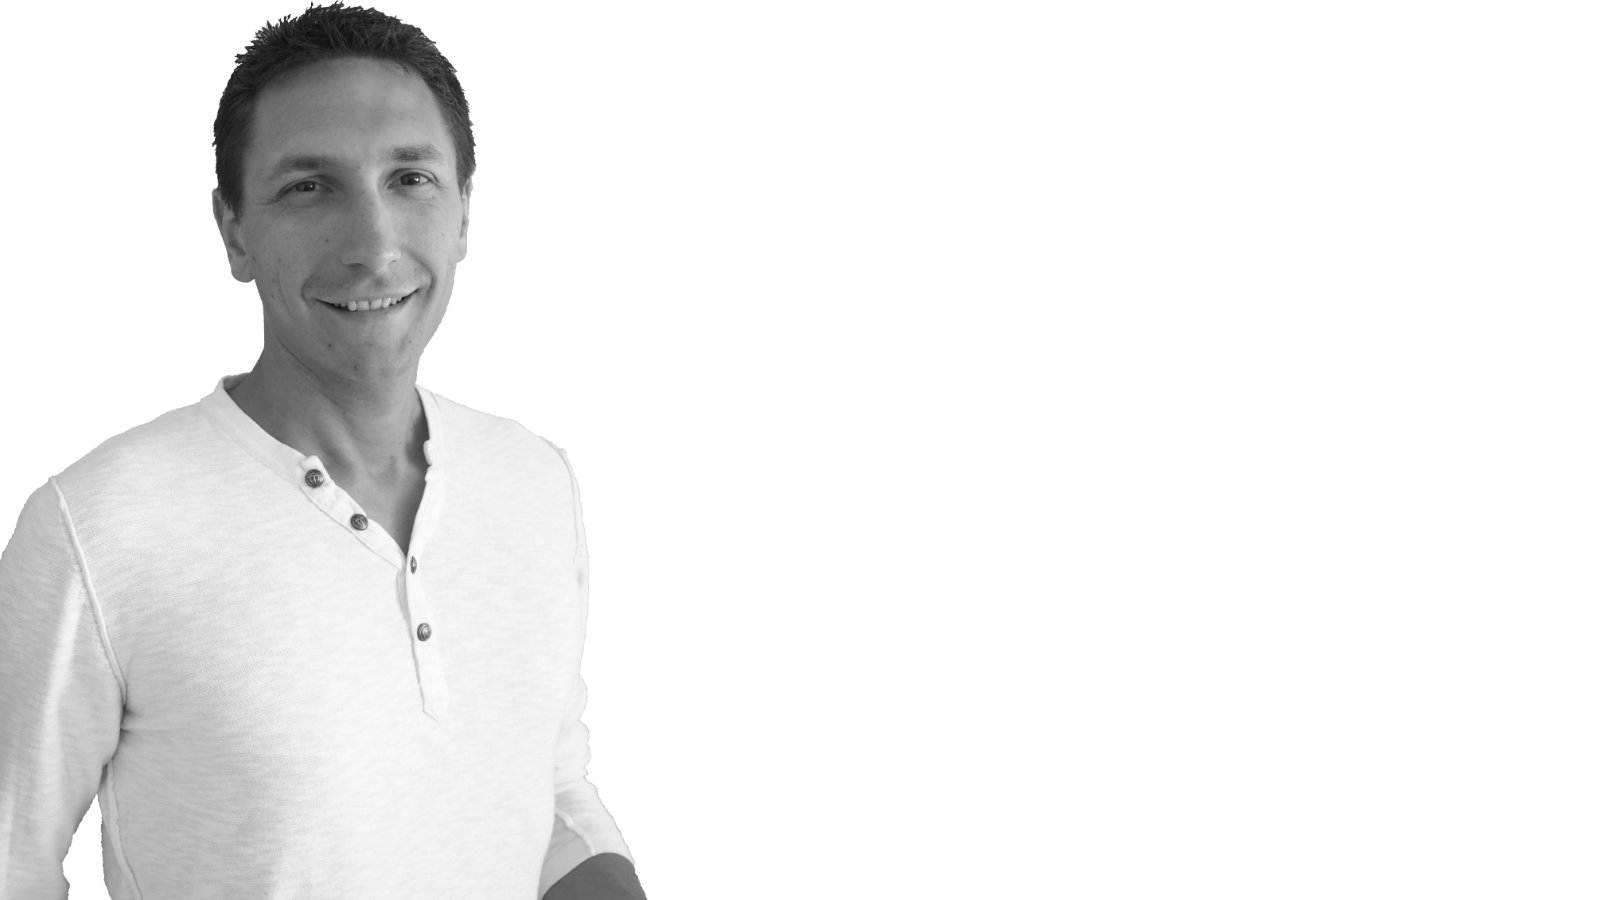
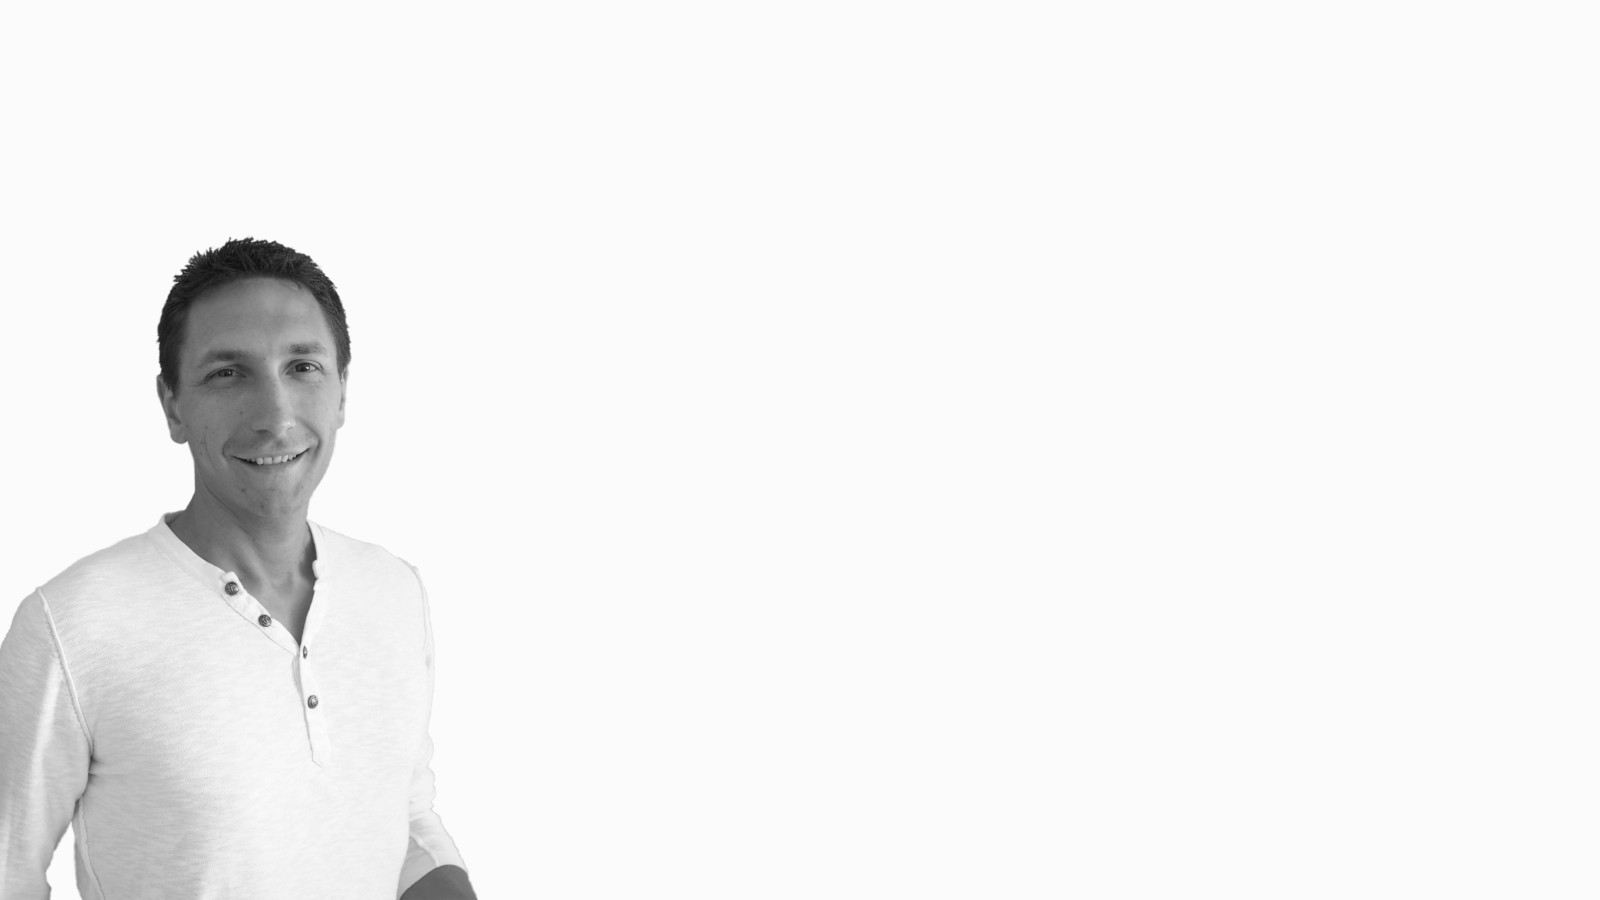
Change background & text

Changed region(s): [[0.0, 0.0, 0.3125, 1.0], [0.25, 0.8711, 0.4062, 1.0], [0.1875, 0.7778, 0.2188, 0.8089]]

diff --git a/src/templates/about.js b/src/templates/about.js
@@ -1,6 +1,33 @@
 import React from 'react'
 import background from '../img/about.jpg'
 
+const skills = [
+  'HTML5',
+  'CSS3',
+  'Javascript',
+  'jQuery',
+  'PHP',
+  'OOP',
+  'Symfony4',
+  'MySQL',
+  'ORM',
+  'MVC',
+  'React',
+  'GatsbyJS',
+  'Wordpress',
+  'Bootstrap',
+  'JAMStack',
+  'Sass',
+  'Git',
+  'GitHub',
+  'REST APIs',
+  'Graphql',
+  'CLI',
+  'VScode',
+  'Linux',
+  'macOS',
+]
+
 export default ({ data }) => (
   <div>
     <div
@@ -9,7 +36,7 @@ export default ({ data }) => (
         backgroundColor: `#fafafa`,
         backgroundImage: `url( ${background} )`,
         backgroundRepeat: `no-repeat`,
-        backgroundPosition: `top`,
+        backgroundPosition: `bottom`,
       }}
     >
       <div className="wrapper">

diff --git a/src/pages/about.md b/src/pages/about.md
@@ -6,8 +6,8 @@ type: "about"
 
 I’m a <mark>web developer</mark>, who changed careers to do a cool job.
 
-I just get a <mark>Bachelor's Degree in Web Development</mark> with [Open Classrooms][1]. Throughout this course I have learned a great deal when it comes to working independently, to self motivation and therefore to being highly adaptable, one of the greatest assets for a profile in today’s working society.
+I have just completed a <mark>Bachelor's Degree in Web Development</mark> with [Open Classrooms][1]. Throughout this course I have learned how to effectively work independently and the importance of self-motivation, allowing me to be efficient as well as highly adaptable, one of the greatest assets for a profile in today’s working society.
 
-My goal is now to become a full-stack web developer. I always welcome feedback on ways to improve myself so please do not hesitate to share your advice or tell me what you think, it will be much appreciated.
+I would like to work as a Javascript full-stack web developer.
 
 [1]:https://openclassrooms.com/for-business
